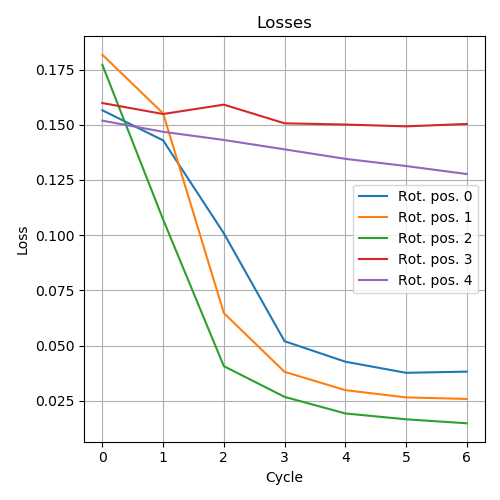
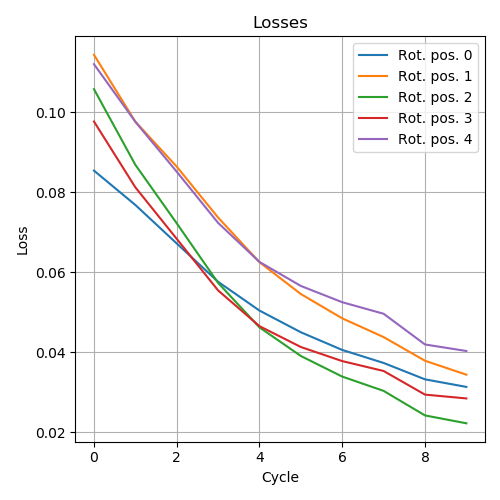
commite

diff --git a/code/trash/train_smplsfirst.py b/code/trash/train_smplsfirst.py
@@ -14,11 +14,11 @@ import utilities as util
 import models
 
 
-params = {'name': 'FRNN_relu',
+params = {'name': 'FRNN__normal',
           'path2data': '../data/ID02_1h.mat',
           # model parameters ------------------------
-          'channel_size': 10,
-          'hidden_size': 10,
+          'channel_size': 20,
+          'hidden_size': 20,
           'lambda': 0.5,
           'nonlinearity': 'tanh',
           'bias': False,
@@ -26,11 +26,9 @@ params = {'name': 'FRNN_relu',
           'sample_size': 1000,
           'window_size': 50,
           'normalization': True,
-          'epochs': 10,
-          # old parameters ---------------------------
           'loss_samples': 5,
           'epochs_per_cycle': 1,
-          'cycles': 7}
+          'cycles': 10}
 
 # Make rotation list
 ch_out_rotation = []
@@ -47,26 +45,33 @@ optimizer = torch.optim.Adam(model.parameters(), lr=0.001)
 
 # Train
 start_time = time.time()
+cycle_loss = []
 
-temp_loss = np.zeros([len(X_train), len(ch_out_rotation)])
-epoch_loss = np.zeros([params['epochs'], len(ch_out_rotation)])
-
-for epoch in range(params['epochs']):
-    if epoch is not 0 and epoch % 8 is 0:
+for cycle_nr in range(params['cycles']):
+    if cycle_nr is not 0 and cycle_nr % 8 is 0:
         for param_group in optimizer.param_groups:
             param_group['lr'] = param_group['lr']/2
-    for smpl_idx, X in enumerate(X_train):
-        optimizer.zero_grad()
-        loss = []
-        for rot_pos, ch_out in enumerate(ch_out_rotation):
-            model.make_gate(ch_out)
-            Y_pred = model(X)
-            loss.append(criterion(Y_pred[ch_out], X[-1, ch_out]))
-            temp_loss[smpl_idx, rot_pos] = loss[rot_pos].item()
-        torch.autograd.backward(loss)
-        optimizer.step()
-    epoch_loss[epoch, :] = np.mean(temp_loss, axis=0)
-    print(f'Epoch: {epoch} | Loss: {np.mean(temp_loss):.4}')
+    for rot_pos, ch_out in enumerate(ch_out_rotation):
+        temp_loss = []
+        epoch_loss = []
+        model.make_gate(ch_out)
+
+        for epoch in range(params['epochs_per_cycle']):
+            for idx, X in enumerate(X_train):
+                optimizer.zero_grad()
+                Y_pred = model(X)
+                loss = criterion(Y_pred[ch_out], X[-1:, ch_out])
+                loss.backward()
+                optimizer.step()
+                temp_loss.append(loss.item())
+
+            epoch_loss.append(np.mean(np.asarray(temp_loss)))
+            print(f'Cycle: {cycle_nr} | Rot. pos.: {rot_pos} | Epoch: {epoch} | Loss: {epoch_loss[epoch]:.4}')
+
+        if cycle_nr is 0:
+            cycle_loss.append(np.asarray(epoch_loss))
+        else:
+            cycle_loss[rot_pos] = np.concatenate((cycle_loss[rot_pos], np.asarray(epoch_loss)), 0)
 
 total_time = time.time() - start_time
 print(f'Time [min]: {total_time/60:.3}')
@@ -74,7 +79,7 @@ print(f'Time [min]: {total_time/60:.3}')
 # Plot loss
 fig, ax = plt.subplots(1, figsize=(5, 5))
 for i in range(len(ch_out_rotation)):
-    ax.plot(epoch_loss[:, i], label='Rot. pos. ' + str(i))
+    ax.plot(cycle_loss[i], label='Rot. pos. ' + str(i))
     ax.legend()
 ax.set_title('Losses')
 ax.set_ylabel('Loss')

diff --git a/code/trash/train_batchfirst.py b/code/trash/train_batchfirst.py
@@ -13,8 +13,7 @@ import pickle
 import utilities as util
 import models
 
-
-params = {'name': 'FRNN_relu',
+params = {'name': 'FRNN__batchfirst',
           'path2data': '../data/ID02_1h.mat',
           # model parameters ------------------------
           'channel_size': 10,
@@ -26,16 +25,14 @@ params = {'name': 'FRNN_relu',
           'sample_size': 1000,
           'window_size': 50,
           'normalization': True,
-          'epochs': 10,
-          # old parameters ---------------------------
           'loss_samples': 5,
           'epochs_per_cycle': 1,
           'cycles': 7}
 
 # Make rotation list
 ch_out_rotation = []
-for i in range(int(params['channel_size']/2)):
-    ch_out_rotation.append([i, i + int(params['channel_size']/2)])
+for i in range(int(params['channel_size'] / 2)):
+    ch_out_rotation.append([i, i + int(params['channel_size'] / 2)])
 
 # Load data
 X_train, X_test = util.data_loader(params)
@@ -48,28 +45,38 @@ optimizer = torch.optim.Adam(model.parameters(), lr=0.001)
 # Train
 start_time = time.time()
 
-temp_loss = np.zeros([len(X_train), len(ch_out_rotation)])
-epoch_loss = np.zeros([params['epochs'], len(ch_out_rotation)])
+epochs = 10
+loss = []
 
-for epoch in range(params['epochs']):
+epoch_loss = np.zeros([epochs, len(ch_out_rotation)])
+batch_size = 100
+nr_batches = 7
+listloss = []
+temp_loss = np.zeros([nr_batches, len(ch_out_rotation)])  # len(X_train)
+
+for epoch in range(epochs):
     if epoch is not 0 and epoch % 8 is 0:
         for param_group in optimizer.param_groups:
-            param_group['lr'] = param_group['lr']/2
-    for smpl_idx, X in enumerate(X_train):
-        optimizer.zero_grad()
-        loss = []
+            param_group['lr'] = param_group['lr'] / 2
+
+    for batch in range(nr_batches):
         for rot_pos, ch_out in enumerate(ch_out_rotation):
+            optimizer.zero_grad()
+            loss = []
             model.make_gate(ch_out)
-            Y_pred = model(X)
-            loss.append(criterion(Y_pred[ch_out], X[-1, ch_out]))
-            temp_loss[smpl_idx, rot_pos] = loss[rot_pos].item()
-        torch.autograd.backward(loss)
-        optimizer.step()
+            for smpl in range(batch_size):
+                Y_pred = model(X_train[smpl + batch_size * batch])
+                loss.append(criterion(Y_pred[ch_out], X_train[smpl + 100 * batch][-1, ch_out]))
+                listloss.append(loss[-1].item())
+
+            temp_loss[batch, rot_pos] = np.mean(listloss)
+            torch.autograd.backward(loss)
+            optimizer.step()
     epoch_loss[epoch, :] = np.mean(temp_loss, axis=0)
     print(f'Epoch: {epoch} | Loss: {np.mean(temp_loss):.4}')
 
 total_time = time.time() - start_time
-print(f'Time [min]: {total_time/60:.3}')
+print(f'Time [min]: {total_time / 60:.3}')
 
 # Plot loss
 fig, ax = plt.subplots(1, figsize=(5, 5))

diff --git a/code/trash/train_rotearly.py b/code/trash/train_rotearly.py
@@ -14,13 +14,13 @@ import utilities as util
 import models
 
 
-params = {'name': 'FRNN_new2',
+params = {'name': 'FRNN__rotearly',
           'path2data': '../data/ID02_1h.mat',
           # model parameters ------------------------
-          'channel_size': 10,
-          'hidden_size': 10,
+          'channel_size': 20,
+          'hidden_size': 20,
           'lambda': 0.5,
-          'nonlinearity': 'sigmoid',
+          'nonlinearity': 'tanh',
           'bias': False,
           # train parameters -------------------------
           'sample_size': 1000,
@@ -47,7 +47,7 @@ optimizer = torch.optim.Adam(model.parameters(), lr=0.001)
 start_time = time.time()
 
 
-epochs = 5
+epochs = 10
 loss = []
 temp_loss = np.zeros([len(X_train), len(ch_out_rotation)])
 epoch_loss = np.zeros([epochs, len(ch_out_rotation)])
@@ -58,15 +58,18 @@ for epoch in range(epochs):
             param_group['lr'] = param_group['lr']/2
 
     for smpl_idx, X in enumerate(X_train):
-        loss = []
-        optimizer.zero_grad()
+
+
         for rot_pos, ch_out in enumerate(ch_out_rotation):
+            optimizer.zero_grad()
             model.make_gate(ch_out)
             Y_pred = model(X)
-            loss.append(criterion(Y_pred[ch_out], X[-1, ch_out]))
-            temp_loss[smpl_idx, rot_pos] = loss[rot_pos].item()
-        torch.autograd.backward(loss)
-        optimizer.step()
+            l = criterion(Y_pred[ch_out], X[-1, ch_out])
+            l.backward()
+            optimizer.step()
+            #loss.append(l.item)
+            temp_loss[smpl_idx, rot_pos] = l.item()
+
     epoch_loss[epoch, :] = np.mean(temp_loss, axis=0)
     print(f'Epoch: {epoch} | Loss: {np.mean(temp_loss):.4}')
 

diff --git a/code/models.py b/code/models.py
@@ -27,8 +27,11 @@ class FRNN(nn.Module):
     def make_gate(self, channel_pos_out: list, new_recurrence=None):
         # Define input channels
         channel_pos_in = list(range(0, self.visible_size))
-        for _, val in enumerate(channel_pos_out):
-            channel_pos_in.remove(val)
+        if type(channel_pos_out) is list:
+            for _, val in enumerate(channel_pos_out):
+                channel_pos_in.remove(val)
+        elif type(channel_pos_out) is int:
+            channel_pos_in.remove(channel_pos_out)
         # Optional new recurrence factor
         if new_recurrence is not None:
             self.recurrence = new_recurrence
@@ -45,5 +48,5 @@ class FRNN(nn.Module):
         for idx in range(X.shape[0]):
             i[:self.visible_size] = X[idx, :]
             u = torch.mul(self.Lambda, self.W(r)) + torch.mul((1 - self.Lambda), i)
-            r = self.nonlinearity(u)
+            r = (self.nonlinearity(u)+1)/2
         return u[:self.visible_size]

diff --git a/code/evaluation.py b/code/evaluation.py
@@ -13,7 +13,7 @@ import models
 
 
 # Load parameters
-params = pickle.load(open('../models/FRNN_new2.pkl', 'rb'))
+params = pickle.load(open('../models/FRNN_relu.pkl', 'rb'))  # rotearlyopt normal
 
 # Load data
 X_train, X_test = util.data_loader(params)
@@ -25,7 +25,7 @@ model.load_state_dict(torch.load('../models/' + params['name'] + '.pth'))
 # Evaluate model
 model.eval()
 
-ch = [0, 5]
+ch = [1, 5, 8]
 model.make_gate(ch)
 Y_preds = []
 Y = []
@@ -49,8 +49,8 @@ for i in range(len(ch)):
     ax[i].legend()
 
 fig.subplots_adjust(hspace=.8)
-plt.show()
 fig.savefig('../doc/figures/pred_' + params['name'] + '.png')
 
-util.plot_weights(W=model.W.weight.data.numpy(), params=params, vmax=0.8,
+W = model.W.weight.data.numpy()
+util.plot_weights(W=W, params=params, vmax=1,
                   save2path='../doc/figures/weights_' + params['name'] + '.png')

diff --git a/code/utilities.py b/code/utilities.py
@@ -90,7 +90,7 @@ def plot_weights(W: float, params: dict, vmax=1, linewidth=.5, absolute=False, s
     fig.text(0.35, 0.08, 'from visible node', va='center', ha='center')
     fig.text(0.77, 0.08, 'from hidden node', va='center', ha='center')
     fig.subplots_adjust(hspace=0.3, wspace=0.3)
-    plt.show()
+    #plt.show()
 
     if save2path is not None:
         fig.savefig(save2path)

diff --git a/code/display_params.py b/code/display_params.py
@@ -5,7 +5,7 @@ Part of master thesis Segessenmann J. (2020)
 
 import pickle
 
-params = pickle.load(open('../models/FRNN_tanh.pkl', 'rb'))
+params = pickle.load(open('../models/FRNN__rotfirst.pkl', 'rb'))
 
 for keys, values in params.items():
     print(f'{keys}: {values}')
